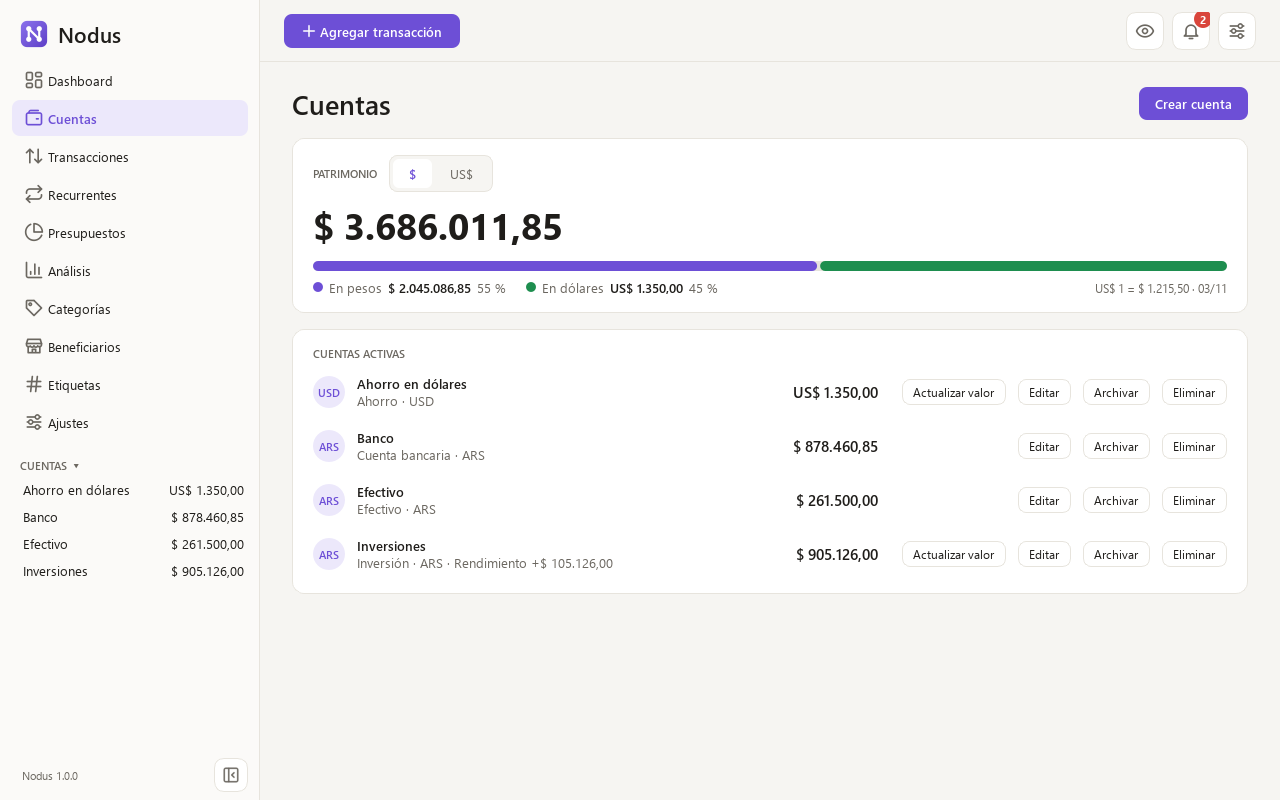
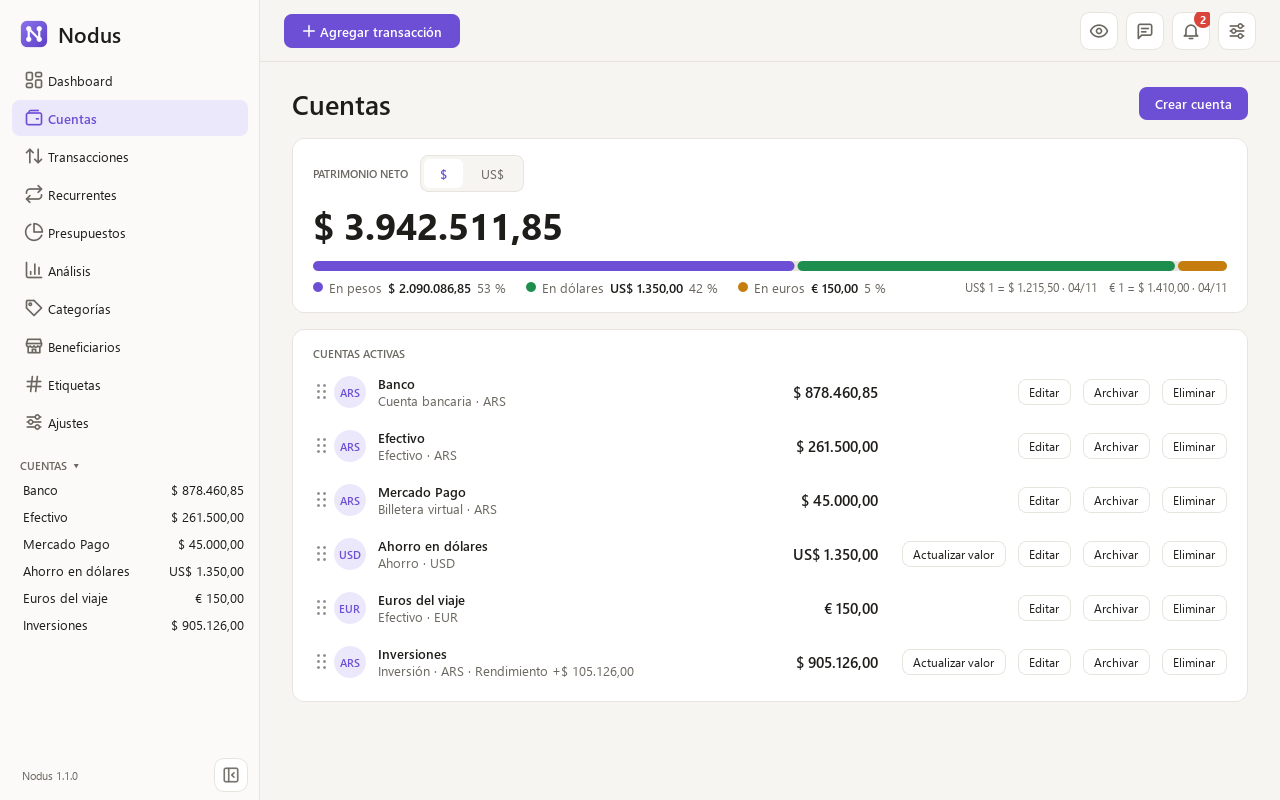
release: v1.1.0
Bump the version to 1.1.0, date its CHANGELOG section with shorter
notes, close v1.1 in both READMEs' roadmap and refresh the screenshots.

Also polish the interface before the release:
- Net worth card: the currency legend and subtotals wrap onto new lines
  (new FlowLayout) instead of pushing the dashboard cards off the window
  when many currencies are held.
- Settings: the rate currency selector hides currencies that are not in
  use instead of graying them out; "start with Windows" is a plain
  checkbox, and outside the installed program a tooltip says why it is
  unavailable.
- Checkboxes have a more visible border, and a muted look when disabled.

diff --git a/src/nodus/ui/widgets/flow_layout.py b/src/nodus/ui/widgets/flow_layout.py
@@ -1,0 +1,99 @@
+"""A layout that places items in a row and wraps to a new line when they do not fit."""
+
+from __future__ import annotations
+
+from PySide6.QtCore import QMargins, QPoint, QRect, QSize, Qt
+from PySide6.QtWidgets import QLayout, QLayoutItem, QWidget
+
+
+class FlowLayout(QLayout):
+    """Left to right, like words in a paragraph.
+
+    A row of labels in a box layout cannot get narrower than all of them together, which
+    pushes everything around it off the window; this one gives up width for height.
+    With ``last_to_the_right``, the last item sits against the right edge of its line,
+    like a row that ends in a stretch.
+    """
+
+    def __init__(
+        self,
+        parent: QWidget | None = None,
+        h_spacing: int = 20,
+        v_spacing: int = 6,
+        last_to_the_right: bool = False,
+    ) -> None:
+        super().__init__(parent)
+        self.setContentsMargins(0, 0, 0, 0)
+        self._last_to_the_right = last_to_the_right
+        self._h_spacing = h_spacing
+        self._v_spacing = v_spacing
+        self._items: list[QLayoutItem] = []
+
+    def addItem(self, item: QLayoutItem) -> None:  # noqa: N802
+        self._items.append(item)
+
+    def count(self) -> int:
+        return len(self._items)
+
+    def itemAt(self, index: int) -> QLayoutItem | None:  # noqa: N802
+        return self._items[index] if 0 <= index < len(self._items) else None
+
+    def takeAt(self, index: int) -> QLayoutItem | None:  # noqa: N802
+        return self._items.pop(index) if 0 <= index < len(self._items) else None
+
+    def expandingDirections(self) -> Qt.Orientation:  # noqa: N802
+        return Qt.Orientation(0)
+
+    def hasHeightForWidth(self) -> bool:  # noqa: N802
+        return True
+
+    def heightForWidth(self, width: int) -> int:  # noqa: N802
+        return self._arrange(QRect(0, 0, width, 0), move=False)
+
+    def setGeometry(self, rect: QRect) -> None:  # noqa: N802
+        super().setGeometry(rect)
+        self._arrange(rect, move=True)
+
+    def sizeHint(self) -> QSize:  # noqa: N802
+        return self.minimumSize()
+
+    def minimumSize(self) -> QSize:  # noqa: N802
+        """As narrow as the widest single item: anything wider wraps."""
+        size = QSize()
+        for item in self._visible_items():
+            size = size.expandedTo(item.minimumSize())
+        margins: QMargins = self.contentsMargins()
+        return size + QSize(margins.left() + margins.right(), margins.top() + margins.bottom())
+
+    def _visible_items(self) -> list[QLayoutItem]:
+        return [item for item in self._items if not item.isEmpty()]
+
+    def _arrange(self, rect: QRect, move: bool) -> int:
+        """Places the items inside ``rect`` (only when ``move``), each centered on its
+        line; returns the height used."""
+        margins = self.contentsMargins()
+        area = rect.adjusted(margins.left(), margins.top(), -margins.right(), -margins.bottom())
+        items = self._visible_items()
+        lines: list[list[tuple[QLayoutItem, int]]] = []
+        x = area.x()
+        for item in items:
+            width = item.sizeHint().width()
+            if not lines or (x > area.x() and x + width > area.right() + 1):
+                lines.append([])
+                x = area.x()
+            if self._last_to_the_right and item is items[-1]:
+                x = max(x, area.right() + 1 - width)
+            lines[-1].append((item, x))
+            x += width + self._h_spacing
+        y = area.y()
+        for index, line in enumerate(lines):
+            if index:
+                y += self._v_spacing
+            height = max(item.sizeHint().height() for item, _ in line)
+            if move:
+                for item, left in line:
+                    hint = item.sizeHint()
+                    top = y + (height - hint.height()) // 2
+                    item.setGeometry(QRect(QPoint(left, top), hint))
+            y += height
+        return y - rect.y() + margins.bottom()

diff --git a/src/nodus/ui/widgets/net_worth_card.py b/src/nodus/ui/widgets/net_worth_card.py
@@ -22,6 +22,7 @@ from nodus.ui.widgets.change_badge import ChangeBadge
 from nodus.ui.widgets.chart_base import format_compact
 from nodus.ui.widgets.charts import ProportionBar, Segment
 from nodus.ui.widgets.color import ColorDot
+from nodus.ui.widgets.flow_layout import FlowLayout
 from nodus.ui.widgets.line_chart import LineChart, LinePoint
 from nodus.ui.widgets.money_label import AnimatedMoneyLabel, masked
 from nodus.ui.widgets.segmented import SegmentedControl
@@ -147,9 +148,8 @@ class NetWorthCard(Card):
     def _build_missing_rate(self) -> None:
         """The subtotals side by side, for when they cannot be added up."""
         self.missing_rate = QWidget()
-        layout = QHBoxLayout(self.missing_rate)
-        layout.setContentsMargins(0, 0, 0, 0)
-        layout.setSpacing(32)
+        # Wraps, like the legend, when there are many currencies to list.
+        layout = FlowLayout(self.missing_rate, h_spacing=32, v_spacing=12)
         self.subtotal_labels: dict[Currency, AnimatedMoneyLabel] = {}
         self._subtotal_columns: dict[Currency, QWidget] = {}
         for currency in Currency:
@@ -171,17 +171,15 @@ class NetWorthCard(Card):
         self.load_rate_button.setObjectName("SecondaryButton")
         self.load_rate_button.setToolTip("Hace falta para sumar tus cuentas en otras monedas")
         self.load_rate_button.clicked.connect(self.rate_requested)
-        layout.addWidget(self.load_rate_button, alignment=Qt.AlignmentFlag.AlignBottom)
-        layout.addStretch()
+        layout.addWidget(self.load_rate_button)
         self.body.addWidget(self.missing_rate)
 
     def _build_legend(self) -> None:
-        legend = QHBoxLayout()
-        legend.setSpacing(20)
+        # Wraps instead of widening the card when many currencies are held.
+        legend = FlowLayout(last_to_the_right=True)
         self.legends = {currency: CurrencyLegend(currency) for currency in Currency}
         for item in self.legends.values():
             legend.addWidget(item)
-        legend.addStretch()
         self.rate_label = QLabel()
         self.rate_label.setObjectName("FieldHint")
         legend.addWidget(self.rate_label)

diff --git a/src/nodus/ui/pages/settings_page.py b/src/nodus/ui/pages/settings_page.py
@@ -148,14 +148,12 @@ class SettingsPage(Page):
         card.body.addWidget(theme_row)
 
         startup = self._services.startup
-        self.startup_row = SettingRow(
-            "Abrir Nodus al iniciar Windows",
-            "" if startup.is_available() else "Disponible en la versión instalada",
-        )
-        self.startup_input = self.startup_row.add(QCheckBox())
+        self.startup_input = QCheckBox("Abrir Nodus al iniciar Windows")
         self.startup_input.setEnabled(startup.is_available())
+        if not startup.is_available():
+            self.startup_input.setToolTip("Disponible en la versión instalada")
         self.startup_input.clicked.connect(startup.set_enabled)
-        card.body.addWidget(self.startup_row)
+        card.body.addWidget(self.startup_input)
         return card
 
     def _set_theme(self, index: int) -> None:
@@ -291,7 +289,7 @@ class SettingsPage(Page):
         """Offers only the currencies in use; with just the dollar, there is no choice."""
         in_use = self._services.rate_feed.currencies()
         for index, currency in enumerate(FOREIGN_CURRENCIES):
-            self.rate_currency_input.set_segment_enabled(index, currency in in_use)
+            self.rate_currency_input.set_segment_visible(index, currency in in_use)
         if self.rate_currency() not in in_use:
             self.rate_currency_input.set_index(FOREIGN_CURRENCIES.index(Currency.USD))
         self.rate_currency_row.setVisible(len(in_use) > 1)

diff --git a/tests/ui/test_dashboard.py b/tests/ui/test_dashboard.py
@@ -1,9 +1,11 @@
 from datetime import date, timedelta
 from decimal import Decimal
 
-from factories import ars, category_id, charge_draft, expense_draft, income_draft
-from PySide6.QtWidgets import QLabel
+from factories import ars, category_id, charge_draft, clp, eur, expense_draft, income_draft
+from PySide6.QtWidgets import QLabel, QScrollArea
 
+from nodus.models.account import AccountType
+from nodus.models.currency import Currency
 from nodus.models.period import Month, Period
 from nodus.models.transaction import TransactionType
 from nodus.ui.navigation import PageId, TransactionFocus
@@ -306,3 +308,17 @@ def test_expenses_legend_goes_beside_the_ring_when_it_fits(qtbot, window, pesos)
 
     window.resize(1280, 900)  # four of six columns are enough for both
     qtbot.waitUntil(lambda: card.legend_beside)
+
+
+def test_many_currencies_never_push_the_cards_off_the_window(
+    qtbot, window, services, pesos, dollars
+):
+    services.accounts.create("Viaje", AccountType.CASH, Currency.EUR, eur("150"))
+    services.accounts.create("Chile", AccountType.CASH, Currency.CLP, clp("90000"))
+    window.resize(1280, 800)
+    window.show_page(PageId.DASHBOARD)
+    qtbot.wait(50)
+
+    page = window.page(PageId.DASHBOARD)
+    scroll = page.findChild(QScrollArea)
+    assert scroll.widget().width() <= scroll.viewport().width()

diff --git a/tests/ui/test_flow_layout.py b/tests/ui/test_flow_layout.py
@@ -1,0 +1,32 @@
+from PySide6.QtWidgets import QLabel, QWidget
+
+from nodus.ui.widgets.flow_layout import FlowLayout
+
+
+def make(qtbot, texts, **options):
+    host = QWidget()
+    qtbot.addWidget(host)
+    layout = FlowLayout(host, h_spacing=10, v_spacing=4, **options)
+    labels = [QLabel(text) for text in texts]
+    for label in labels:
+        layout.addWidget(label)
+    return host, layout, labels
+
+
+def test_narrows_down_to_its_widest_item_and_wraps(qtbot):
+    host, layout, labels = make(qtbot, ["uno", "un texto bastante más largo", "tres"])
+    widest = max(label.sizeHint().width() for label in labels)
+
+    assert layout.minimumSize().width() == widest
+    one_line = layout.heightForWidth(10_000)
+    assert layout.heightForWidth(widest) > one_line
+
+
+def test_last_item_can_sit_against_the_right_edge(qtbot):
+    host, layout, labels = make(qtbot, ["uno", "dos"], last_to_the_right=True)
+    host.resize(400, 40)
+    host.show()
+    layout.activate()
+
+    assert labels[0].geometry().left() == 0
+    assert labels[1].geometry().right() == host.width() - 1

diff --git a/tests/ui/test_settings.py b/tests/ui/test_settings.py
@@ -152,7 +152,7 @@ class TestOtherCurrencies:
         page.refresh()
         assert page.rate_currency_row.isVisibleTo(page)
         clp_segment = page.rate_currency_input.buttons[FOREIGN_CURRENCIES.index(Currency.CLP)]
-        assert not clp_segment.isEnabled()
+        assert not clp_segment.isVisibleTo(page)
 
         page.rate_currency_input.set_index(FOREIGN_CURRENCIES.index(Currency.EUR))
         assert rate_rows(page) == []
@@ -172,7 +172,7 @@ class TestOtherCurrencies:
 class TestStartWithWindows:
     def test_from_the_source_code_it_is_disabled_and_says_why(self, page):
         assert not page.startup_input.isEnabled()
-        assert page.startup_row.detail.text() == "Disponible en la versión instalada"
+        assert page.startup_input.toolTip() == "Disponible en la versión instalada"
 
     def test_ticking_it_registers_nodus(self, qtbot, services, event_bus, theme_manager):
         registry = FakeRegistry()

diff --git a/src/nodus/ui/widgets/segmented.py b/src/nodus/ui/widgets/segmented.py
@@ -52,3 +52,7 @@ class SegmentedControl(QFrame):
 
     def set_segment_enabled(self, index: int, enabled: bool) -> None:
         self.buttons[index].setEnabled(enabled)
+
+    def set_segment_visible(self, index: int, visible: bool) -> None:
+        """Shows or hides an option that does not apply, instead of graying it out."""
+        self.buttons[index].setVisible(visible)

diff --git a/src/nodus/__init__.py b/src/nodus/__init__.py
@@ -1,3 +1,3 @@
 """Nodus: local-first personal finance desktop application."""
 
-__version__ = "1.0.1"
+__version__ = "1.1.0"

diff --git a/CHANGELOG.md b/CHANGELOG.md
@@ -4,19 +4,15 @@ Lo que trae cada versión, de la más nueva a la más vieja. Para actualizar, in
 
 ## 1.1.0 — 2026-11-07
 
-Más monedas, billeteras virtuales y tus cuentas en el orden que quieras.
-
-- Euros y pesos chilenos: crea cuentas en esas monedas, su cotización oficial llega sola desde DolarApi y se suman al patrimonio en pesos o en dólares.
+- Cuentas en euros y en pesos chilenos, con su cotización oficial automática.
 - Billetera virtual como tipo de cuenta, para Mercado Pago, Ualá y similares.
-- Las cuentas se ordenan arrastrando la manija ⋮⋮ en Cuentas; la barra lateral y las listas siguen ese orden.
-- Cualquier color para categorías y etiquetas: la muestra «+» abre un círculo cromático, y también acepta un código como #3A7BD5.
-- Nodus puede abrirse solo al iniciar Windows, desde Ajustes.
-- La tecla Supr elimina lo seleccionado en Transacciones, Beneficiarios y Etiquetas, siempre con confirmación.
-- Enviar comentarios desde Nodus: el globo de la barra superior abre un formulario corto, sin cuenta, que ya sabe qué versión usas. En Ajustes, además, «Apoyar el proyecto» lleva a Cafecito.
-- Novedades: el aviso de versión nueva muestra qué trae, y al abrir una versión nueva Nodus cuenta qué cambió. Están siempre a mano en Ajustes.
-- La tarjeta principal del Dashboard se llama «Patrimonio neto».
-- Arreglo: al tocar el ojo ya no aparece por un instante una ventana suelta.
-- Arreglo: al pasar entre Gasto, Ingreso y Transferencia, los campos del formulario ya no se corren de lugar.
+- Ordena tus cuentas arrastrándolas en Cuentas.
+- Cualquier color para categorías y etiquetas, con un círculo cromático.
+- Nodus puede abrirse solo al iniciar Windows (en Ajustes).
+- Envía comentarios desde el globo de la barra superior, y apoya el proyecto desde Ajustes.
+- Novedades como estas al actualizar, y qué trae cada versión nueva antes de instalarla.
+- Supr elimina lo seleccionado en las listas, con confirmación.
+- Arreglos y pequeñas mejoras en la interfaz.
 
 ## 1.0.1 — 2026-11-06
 

diff --git a/README.es.md b/README.es.md
@@ -128,9 +128,10 @@ Para actualizar, instala la versión nueva encima de la anterior: tus datos se c
 
 ## Hoja de ruta
 
-Nodus crece por versiones pequeñas y estables. La **v1.0**, la primera estable, incluye cuentas, transacciones, cotización del dólar, rendimiento de inversiones, dashboard, cargos recurrentes, presupuestos, beneficiarios, etiquetas, reembolsos, análisis, copias de seguridad y exportación. Lo que viene:
+Nodus crece por versiones pequeñas y estables. La **v1.0**, la primera estable, incluye cuentas, transacciones, cotización del dólar, rendimiento de inversiones, dashboard, cargos recurrentes, presupuestos, beneficiarios, etiquetas, reembolsos, análisis, copias de seguridad y exportación. La **v1.1** sumó euros y pesos chilenos, billeteras virtuales, cuentas en el orden que quieras, cualquier color para categorías y etiquetas, abrir con Windows, enviar comentarios desde la aplicación y un resumen de las novedades después de cada actualización. Lo que viene:
 
-- **Metas y grupos de cuentas:** ahorrar para algo concreto y agrupar bancos, inversiones y efectivo.
+- **v1.2 — Metas y grupos de cuentas:** ahorrar para algo concreto y agrupar bancos, inversiones y efectivo.
+- **v1.3 — Inversiones:** una sección propia para seguirlas.
 
 ## Tecnología
 

diff --git a/README.md b/README.md
@@ -130,9 +130,10 @@ To update, install the new version over the old one: your data is kept. Nodus le
 
 ## Roadmap
 
-Nodus grows in small, stable releases. **v1.0**, the first stable one, covers accounts, transactions, dollar exchange rates, investment returns, the dashboard, recurring charges, budgets, payees, tags, refunds, analysis, backups and export. Coming next:
+Nodus grows in small, stable releases. **v1.0**, the first stable one, covers accounts, transactions, dollar exchange rates, investment returns, the dashboard, recurring charges, budgets, payees, tags, refunds, analysis, backups and export. **v1.1** added euros and Chilean pesos, virtual wallets, accounts in your own order, any color for categories and tags, opening with Windows, sending feedback from the app and a summary of what's new after each update. Coming next:
 
-- **Goals and account groups:** saving for something specific, and grouping banks, investments and cash.
+- **v1.2 — Goals and account groups:** saving for something specific, and grouping banks, investments and cash.
+- **v1.3 — Investments:** a section of its own to follow them.
 
 ## Technology
 
